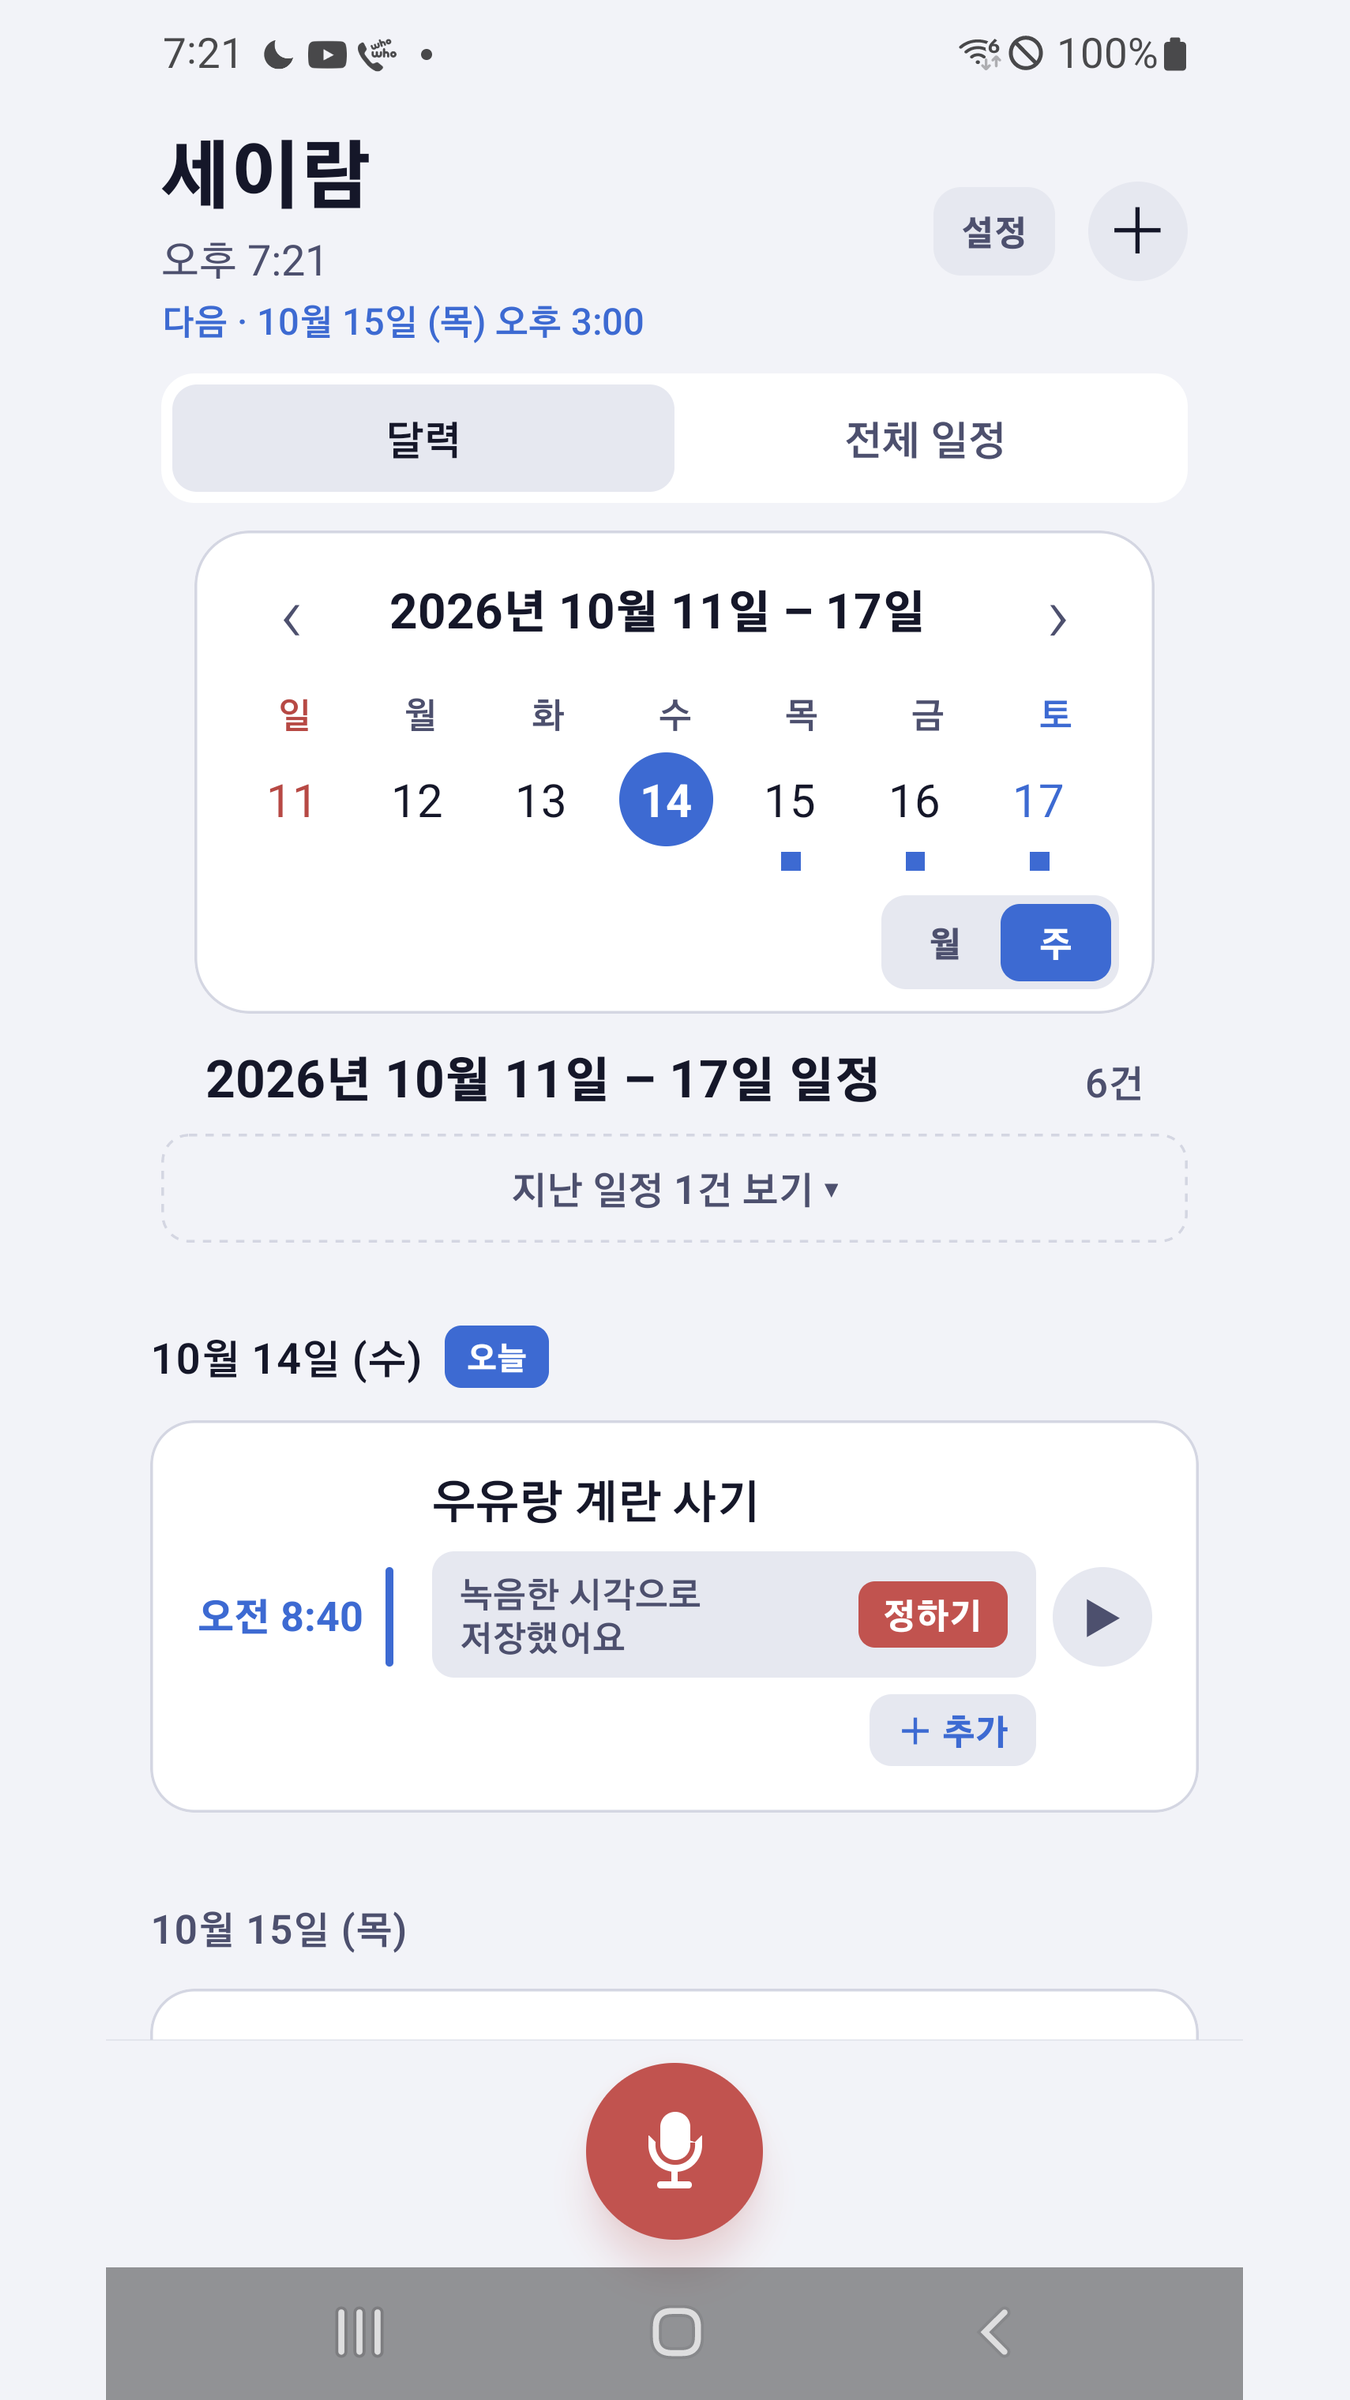
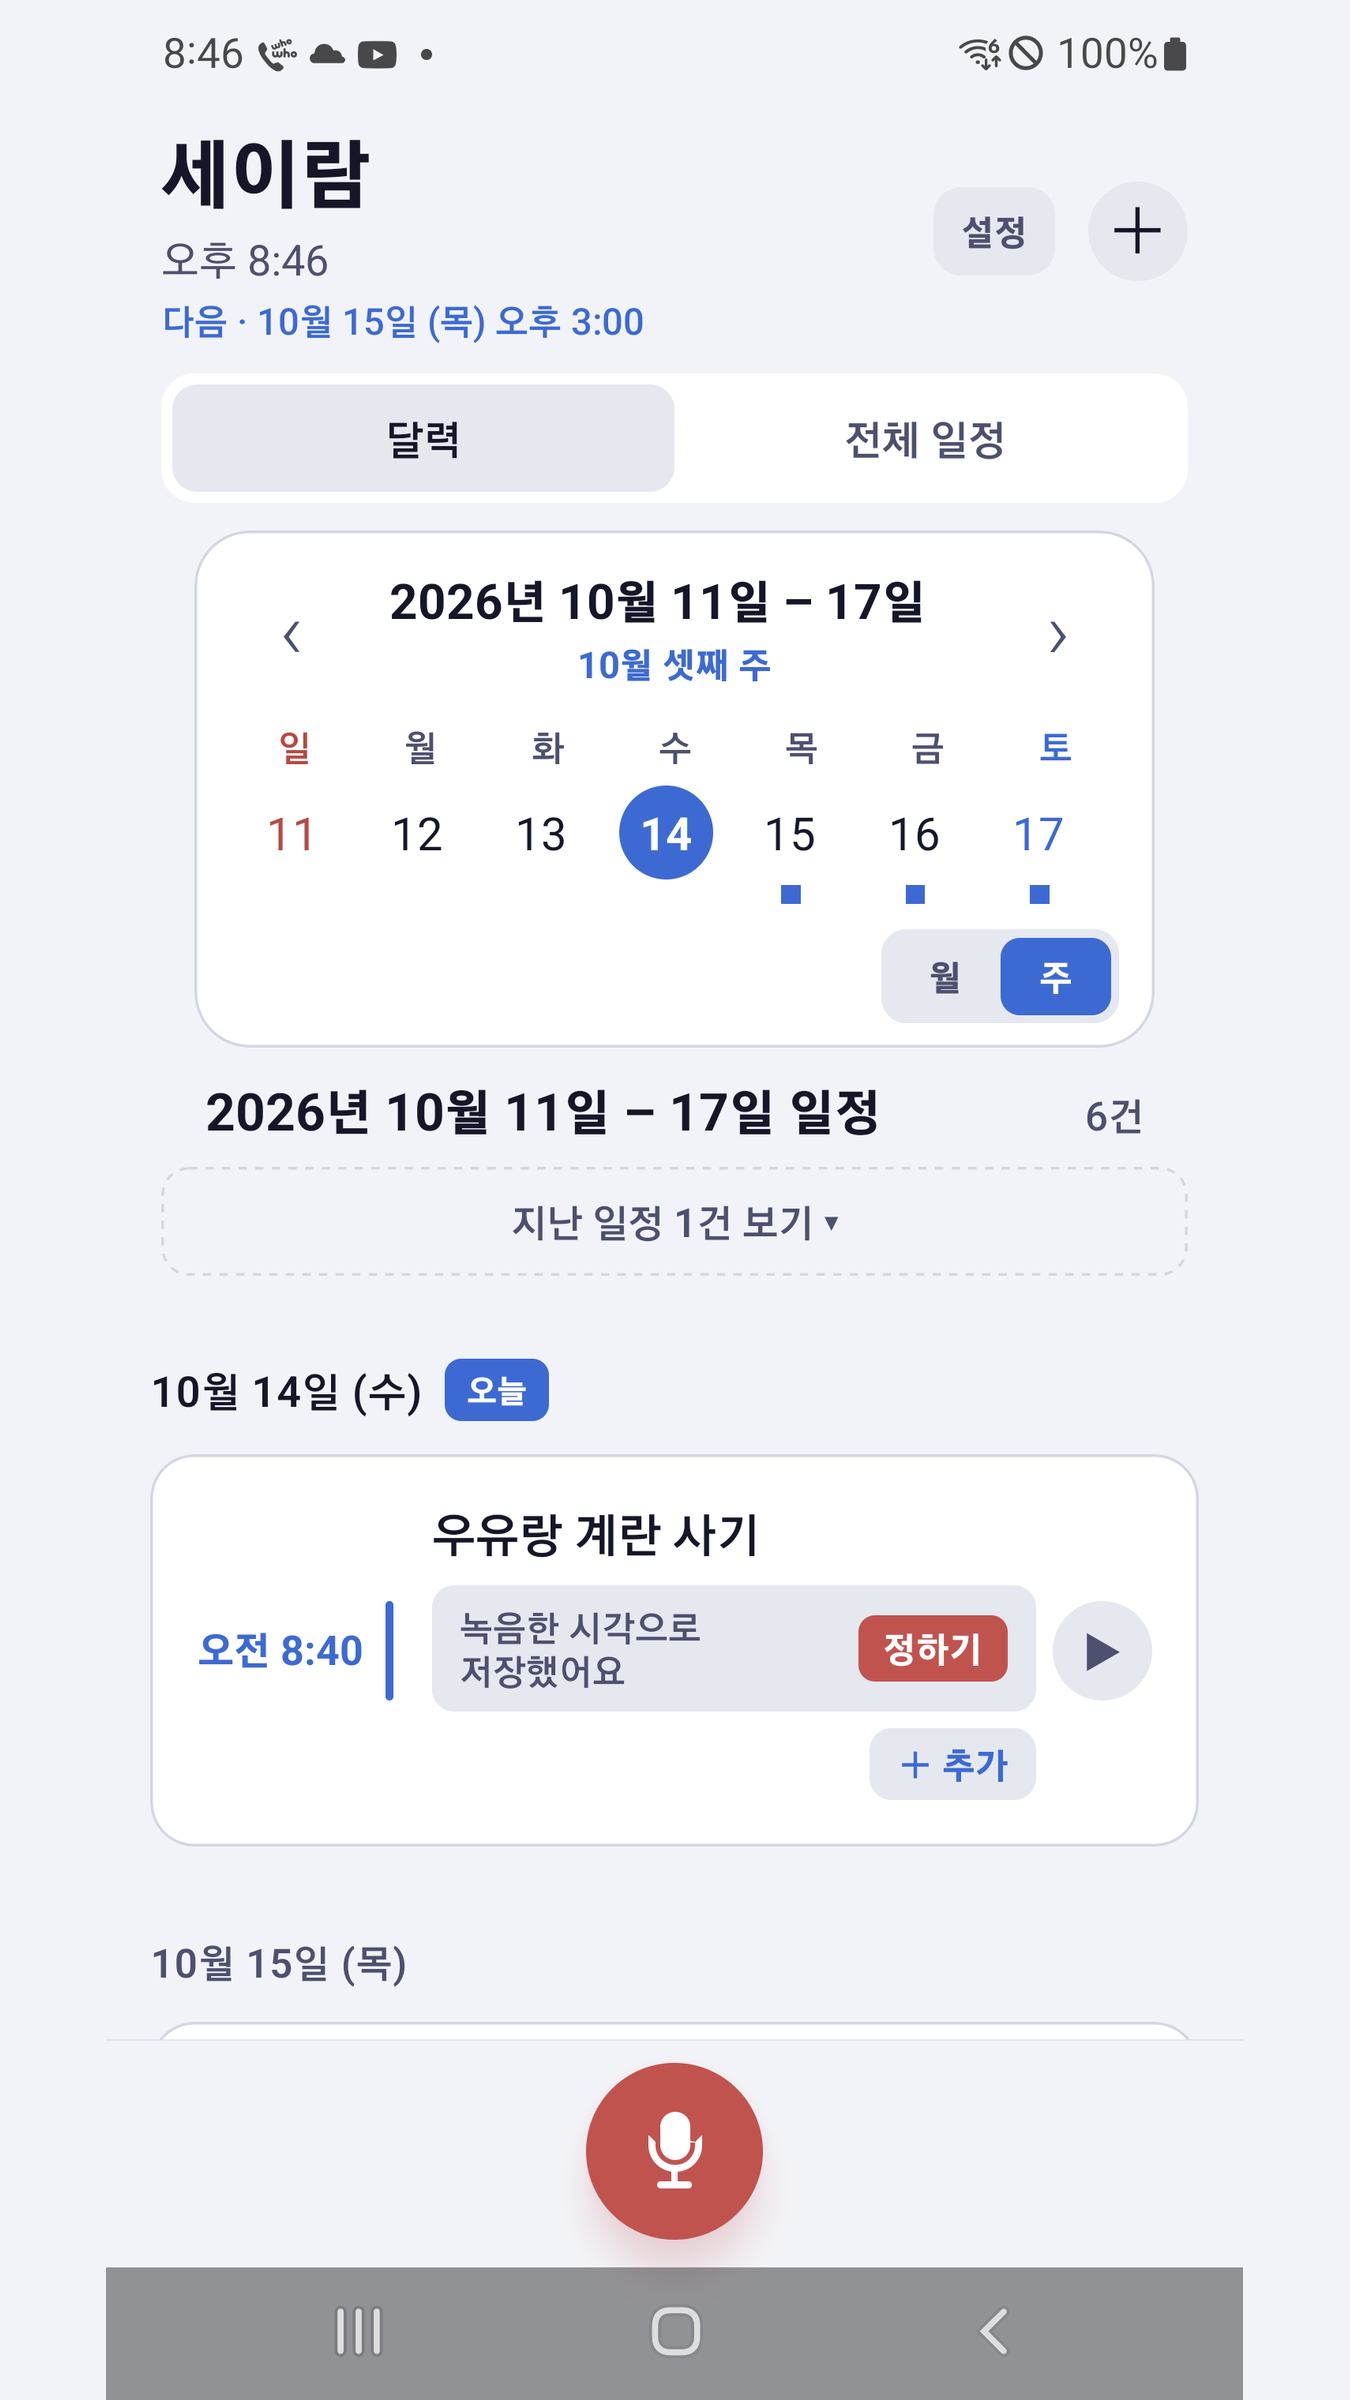
docs: 스크린샷 03·05·09 재촬영 — 알림 바꾸기 버튼, 몇째 주 표시, 상세 보기 제목

diff --git a/docs/PLAY_CONSOLE_GUIDE.md b/docs/PLAY_CONSOLE_GUIDE.md
@@ -150,9 +150,9 @@ cd android && ./gradlew bundleRelease
 |---|---|
 | 01_list | 일정 목록(녹음 시각으로 저장된 메모, 알람·미리 알림, 하루 전 알림 줄) |
 | 02_speaking | 말하는 중: "10분 전에 알려 줘"까지 인식 |
-| 03_detail_replay | 상세(보기·듣기 전용): 단어 구간 다시 듣기 |
+| 03_detail_replay | 상세 보기: "🔔 알림 바꾸기", 단어 구간 다시 듣기 |
 | 04_editor | 수정: 날짜·시간·알림·내용을 한 화면에서, "＋ 말로 덧붙이기", "▶ 녹음 듣기" |
-| 05_calendar_week | 주 보기 달력 |
+| 05_calendar_week | 주 보기 달력(몇째 주 표시) |
 | 06_all_search | 전체 일정: 검색·기간·내보내기 |
 | 07_settings | 설정: 테마·글자 크기·9개 언어 |
 | 08_dark_month | 다크 테마 월 보기 |
